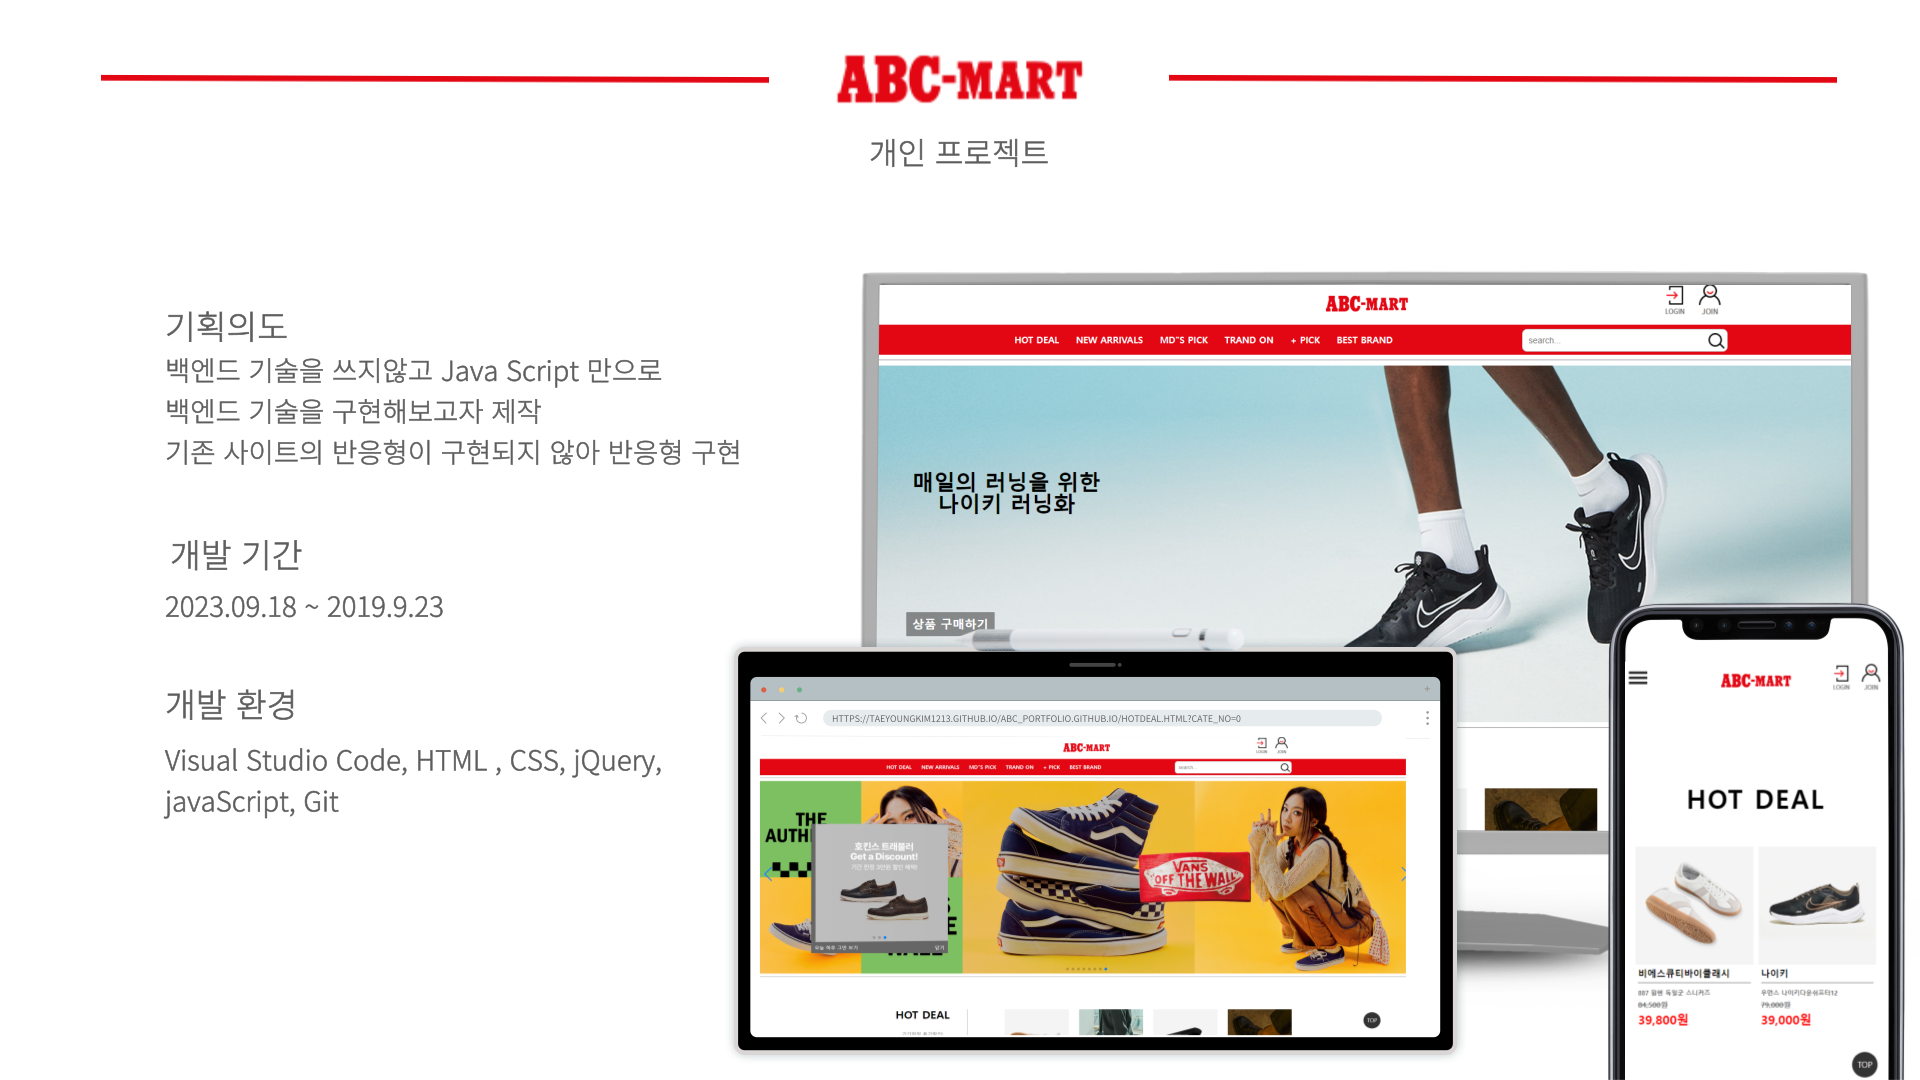
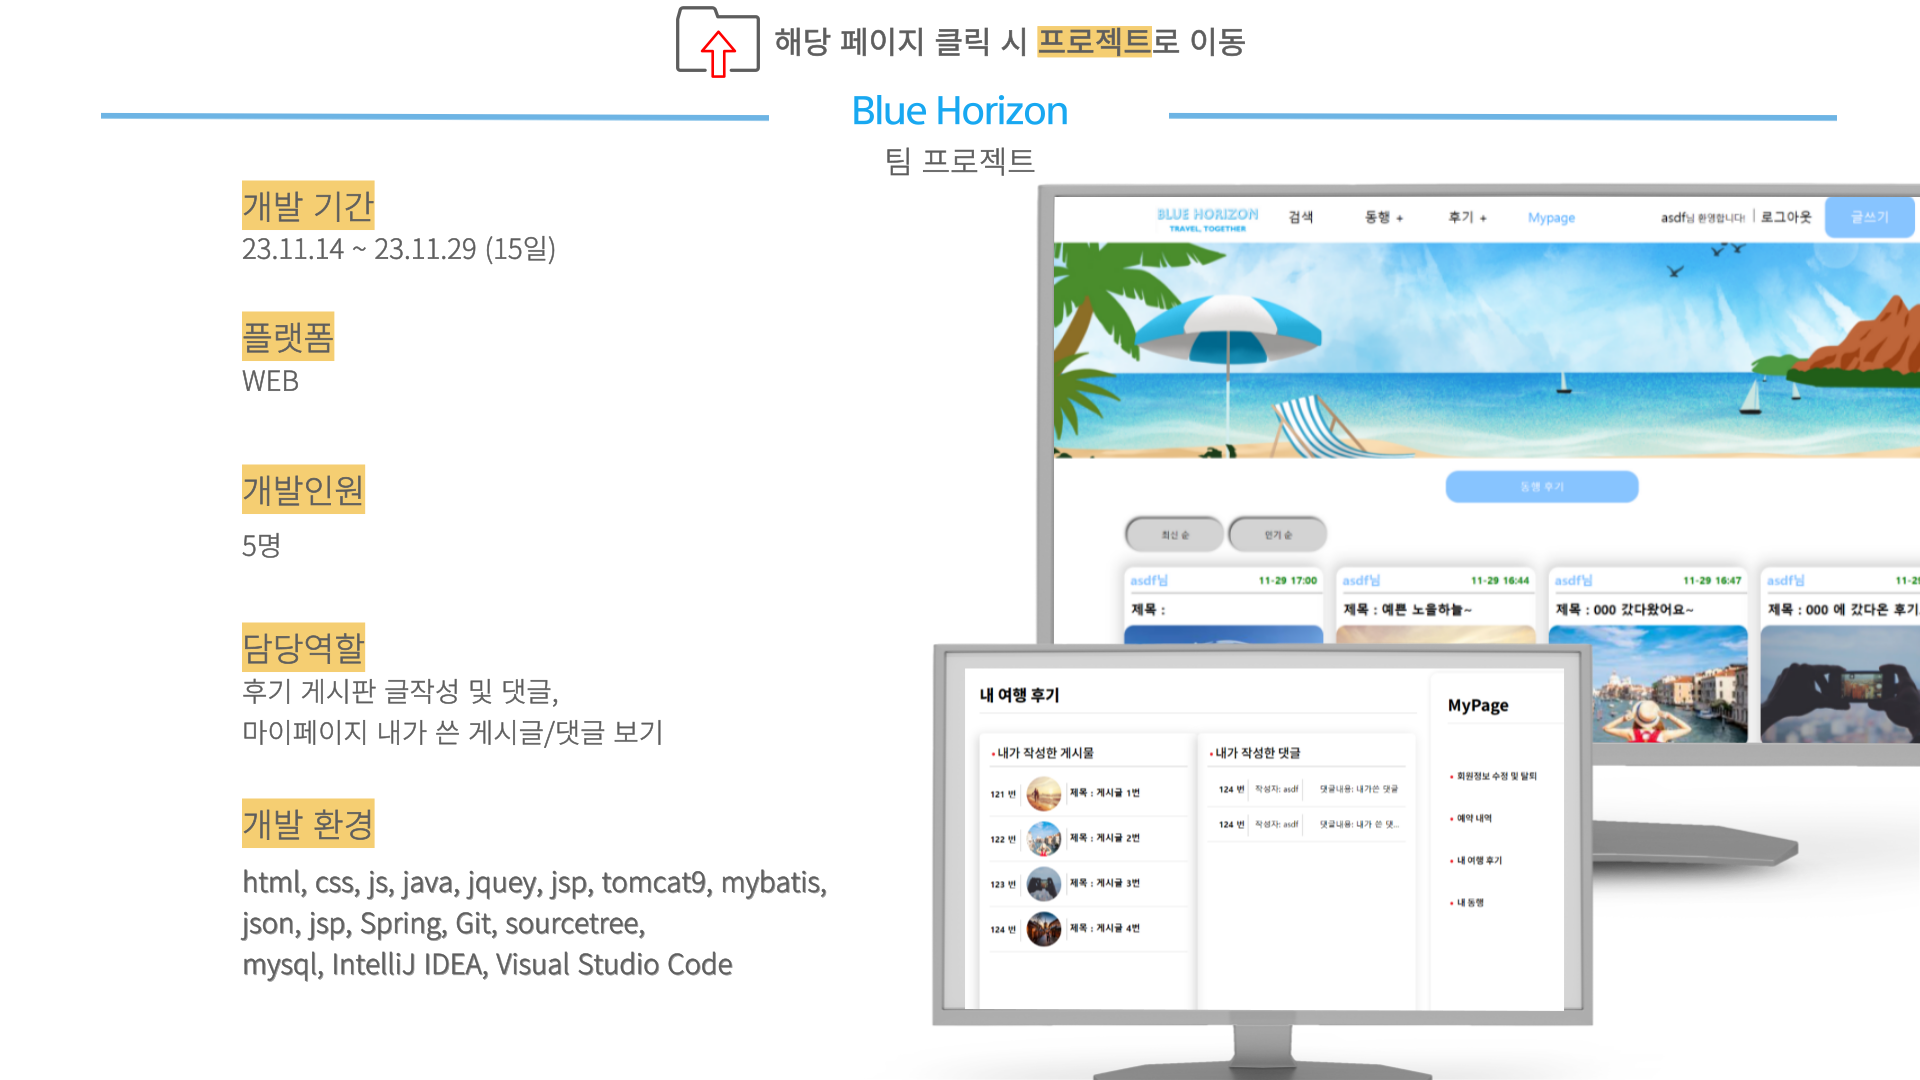
12-09 commit

diff --git a/css/index.css b/css/index.css
@@ -4,7 +4,11 @@ body, html {
     padding: 0;
     width: 100%;
     height: 100%;
+    
   }
+  body::-webkit-scrollbar {
+    display: none; /* Chrome, Safari, Opera*/
+}
 
   #menu {
     height: 100%;
@@ -156,14 +160,27 @@ body, html {
 
 .PROJECTS{
   width: 100%;
-  height: 100vh;
-  background-color: #555;
+
+  position: relative;
+  top: 0;
 }
 .PROJECTS img{
-  /* width: 100%; */
-  /* height: 100vh; */
+  scale: 0.75;
   
 }
+.BLUE_pdf_box{
+  width: 100%;
+  position: absolute;
+  left: 12%;
+    top: 50%;
+    transform: translateY(-50%);
+    z-index: 1;
+    
+}
+
+
+
+
 .ABC{
   width: 100%;
   position: relative;

diff --git a/index.html b/index.html
@@ -68,20 +68,23 @@
 
 <!-- BLUE HORIZZON -->
   <div class="PROJECTS">
-    
- 
+    <a href="https://github.com/taeyoungkim1213/tripTeam" target="_blank">
+      <img src="./img/005.png" alt=""></a>
 
+  
   </div>
 <!-- ABC MART -->
   <div class="ABC">
-    <div class="ABC_link">
-      <a href="">ABC-MART <b>사이트 바로가기</b> </a>
-    </div>
-    <img src="./img/005.png" alt="">
+    <a href="https://taeyoungkim1213.github.io/ABC_portfolio.github.io/" target="_blank">
+      <img src="./img/006.png" alt="">
+    </a>
 
   </div>
 
 
+  <footer>
+
+  </footer>
 
 
 </div>
